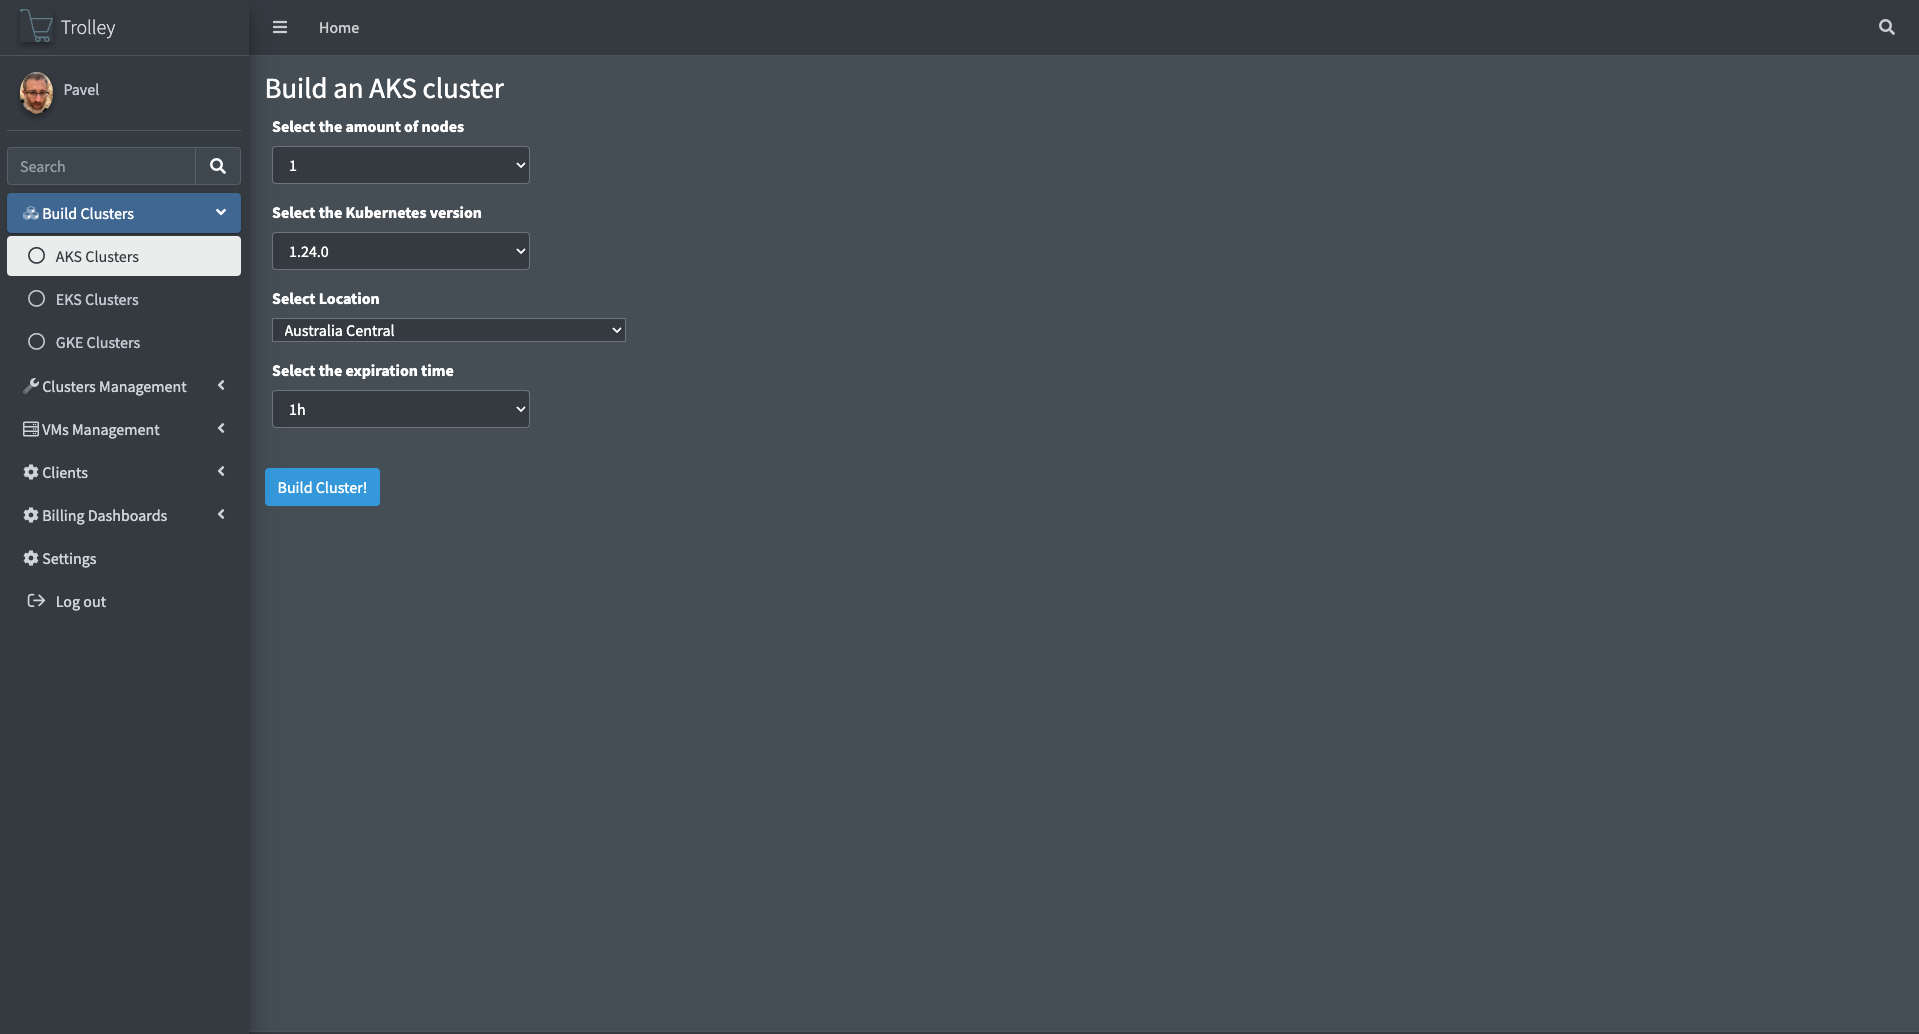
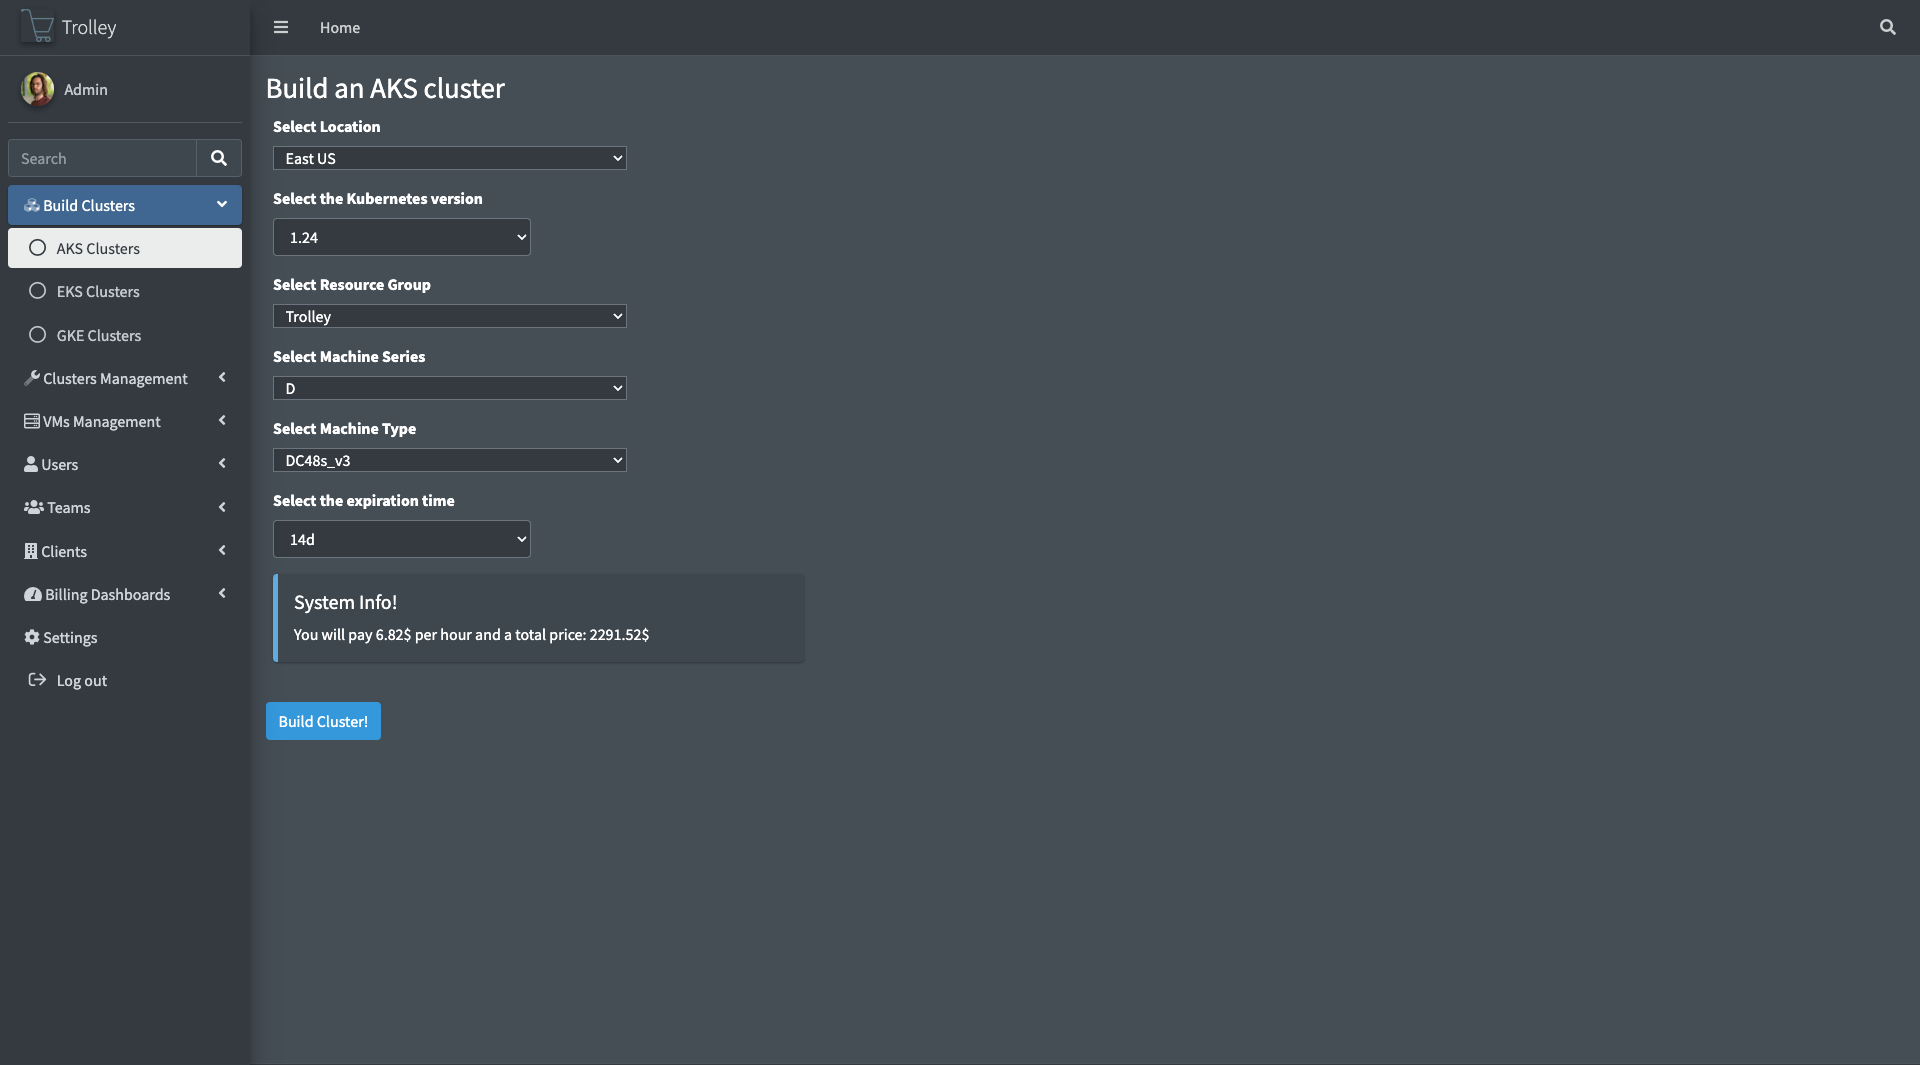
added infracost documentation

diff --git a/README.md b/README.md
@@ -245,6 +245,14 @@ If you get this response it means you can register and log into Trolley: http://
 
 -----------
 
+# Infracost Integration
+It is possible, starting v0.6 to add Infracost API Integration to Trolley to allow predicting clusters' billing.
+The prediction is done using Infracost's Pricing API and is calculated by counting the expiration time of the clusters that are being built and the nodes it is expected to use.
+To activate the feature simply register for a Token on their webpage: https://www.infracost.io/ and use the created token to add in the Settings Menu
+
+![](documentation/infracost_settings.png)
+
+The calculation is expected to start withing 15 minutes following the token insertion. 
 # UI Overview
 
 Short Video Demo:
